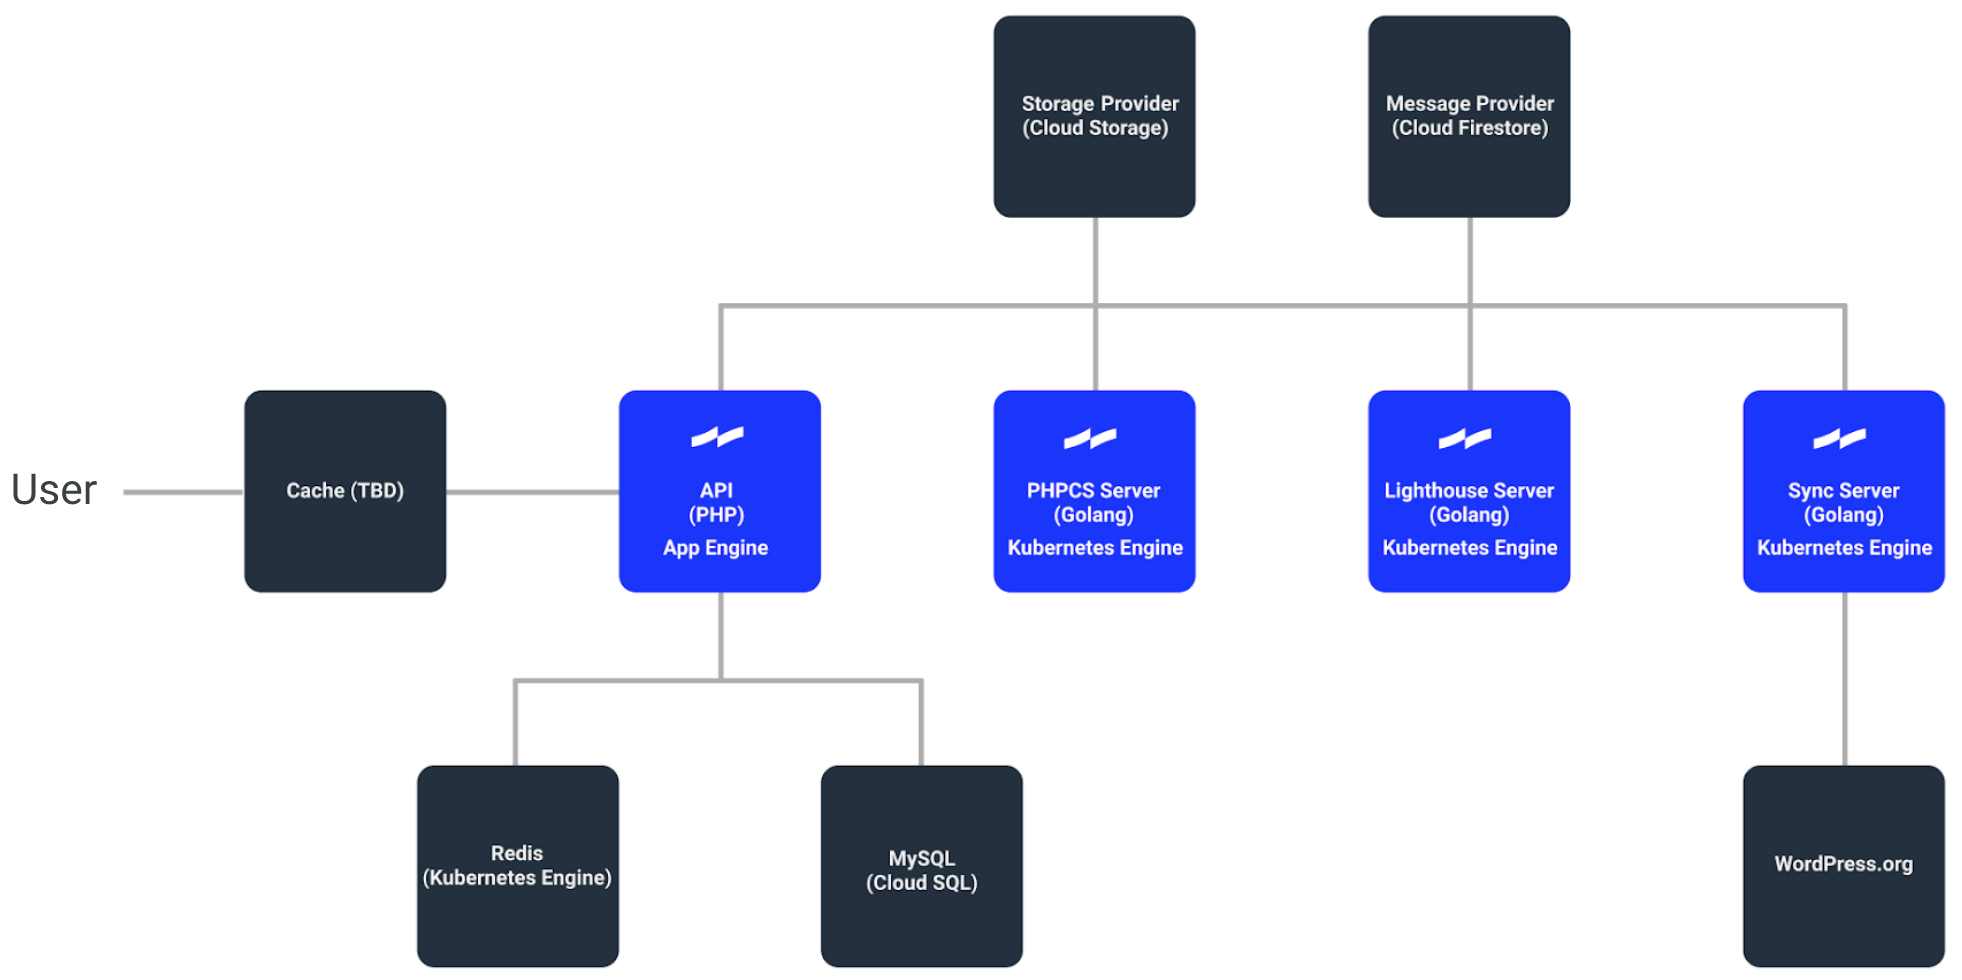
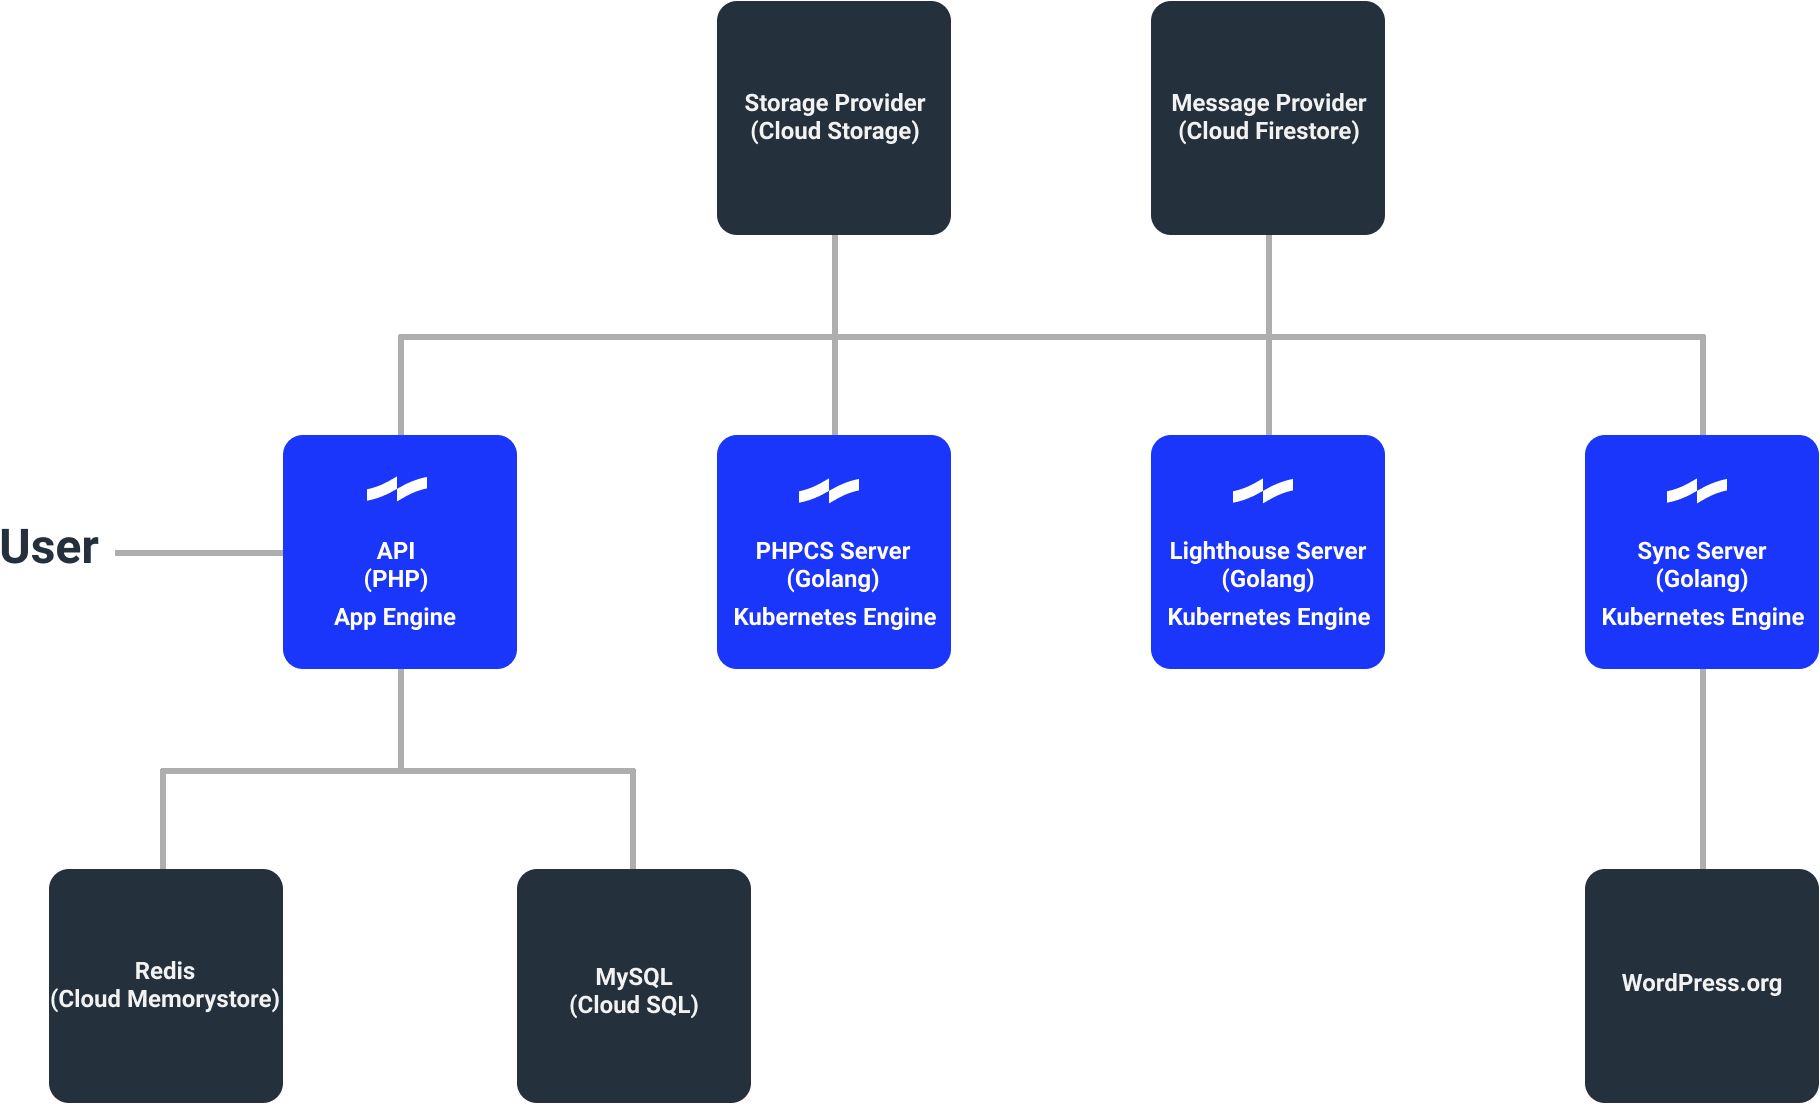
Update architecture diagram

diff --git a/_docpress/index.html b/_docpress/index.html
@@ -126,7 +126,7 @@
 <li>The <a href="services/lighthouse-server">Lighthouse Server</a> reads messages from a queue and runs Google Lighthouse reports against the themes only, then sends the results back to the Tide API.</li>
 </ul>
 <h2 id="architecture-diagram">Architecture diagram</h2>
-<p>The following diagram notes the Google Cloud Platform (GCP) components, Tide services components, and pending link with <a href="http://WordPress.org">WordPress.org</a> for the PHP Compatibility integration.</p>
+<p>The following diagram notes which Google Cloud Platform (GCP) components are used to represent the four Tide services, and how the themes and plugins API on <a href="http://WP.org">WP.org</a> connects to the Sync Server. The basic flow is that a User or an API Client will make a request to the Tide REST API, which sends back a response. The request could create messages in the queue where one or more services process them by running automated scripts and witting the results back to the API. Additionally, the Sync Server will poll the <a href="http://WP.org">WP.org</a> API&apos;s for new themes and plugins to add to the message queue.</p>
 <p><img src="images/architecture-diagram.png" alt></p>
 <h2 id="working-with-tide">Working with Tide</h2>
 <p>Currently you can:</p>

diff --git a/docs/index.md b/docs/index.md
@@ -37,7 +37,7 @@ Tide services are responsible for the following:
 
 ## Architecture diagram
 
-The following diagram notes the Google Cloud Platform (GCP) components, Tide services components, and pending link with WordPress.org for the PHP Compatibility integration.
+The following diagram notes which Google Cloud Platform (GCP) components are used to represent the four Tide services, and how the themes and plugins API on WP.org connects to the Sync Server. The basic flow is that a User or an API Client will make a request to the Tide REST API, which sends back a response. The request could create messages in the queue where one or more services process them by running automated scripts and witting the results back to the API. Additionally, the Sync Server will poll the WP.org API's for new themes and plugins to add to the message queue.
 
 ![](images/architecture-diagram.png)
 
